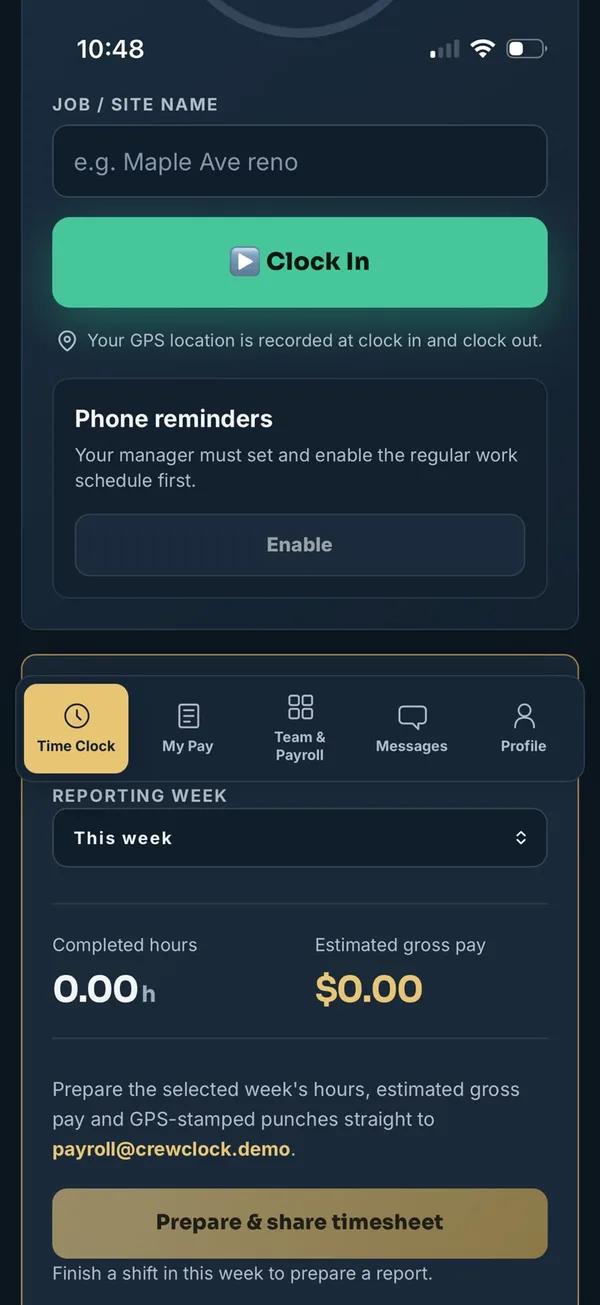
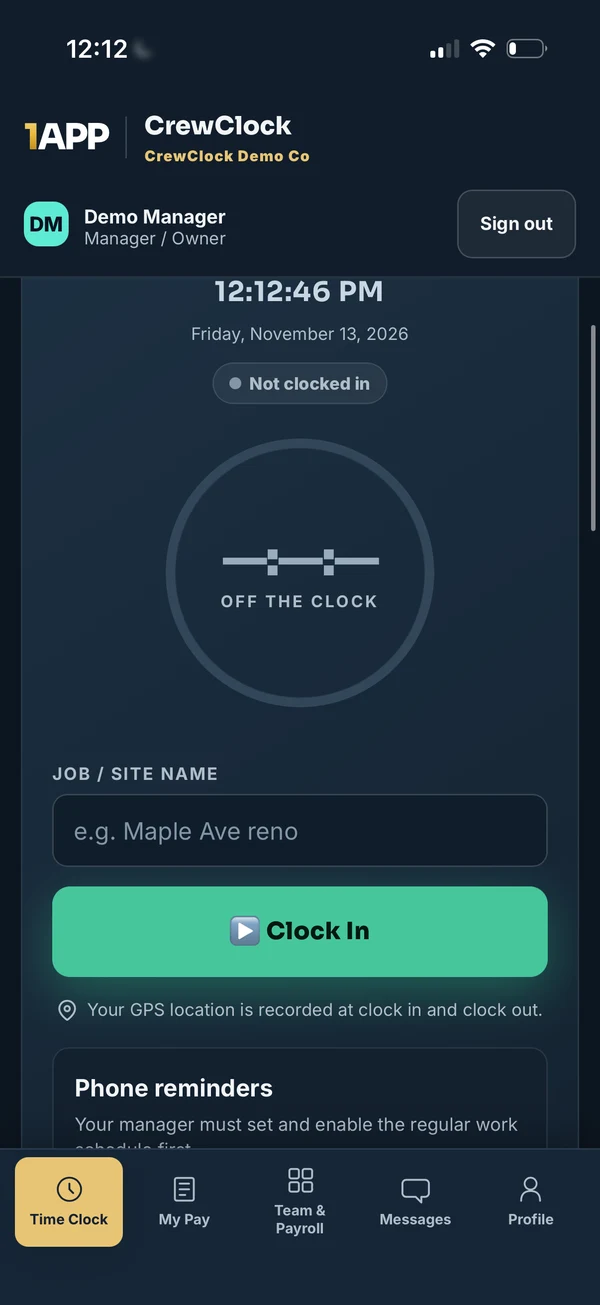
Replace the CrewClock reminders screenshot with the docked nav.
The old phone image showed the bottom bar floating mid-screen. Use the current Clock In and Phone reminders capture and update the alt text to match it.

diff --git a/crewclock/index.html b/crewclock/index.html
@@ -410,7 +410,7 @@
         </div>
 
         <div class="feature flip reveal">
-          <div class="f-media"><div class="phone"><img src="/assets/crewclock/screen-reminders.webp" alt="Reminders settings screen" width="600" height="1305" loading="lazy"></div></div>
+          <div class="f-media"><div class="phone"><img src="/assets/crewclock/screen-reminders.webp" alt="Clock in screen with phone reminders" width="600" height="1305" loading="lazy"></div></div>
           <div class="f-copy">
             <span class="label">Reminders</span>
             <h3>Catch the forgotten punch before it hits payroll.</h3>
